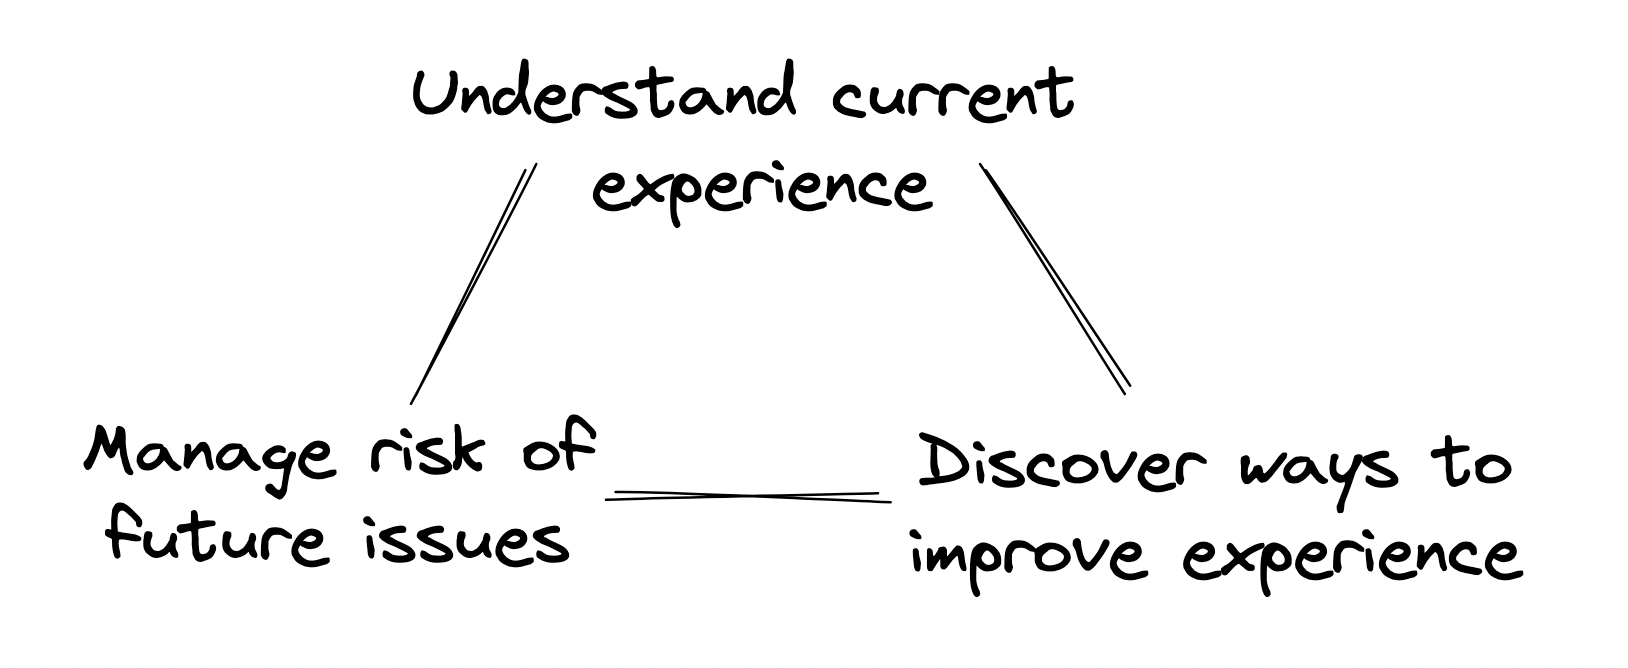
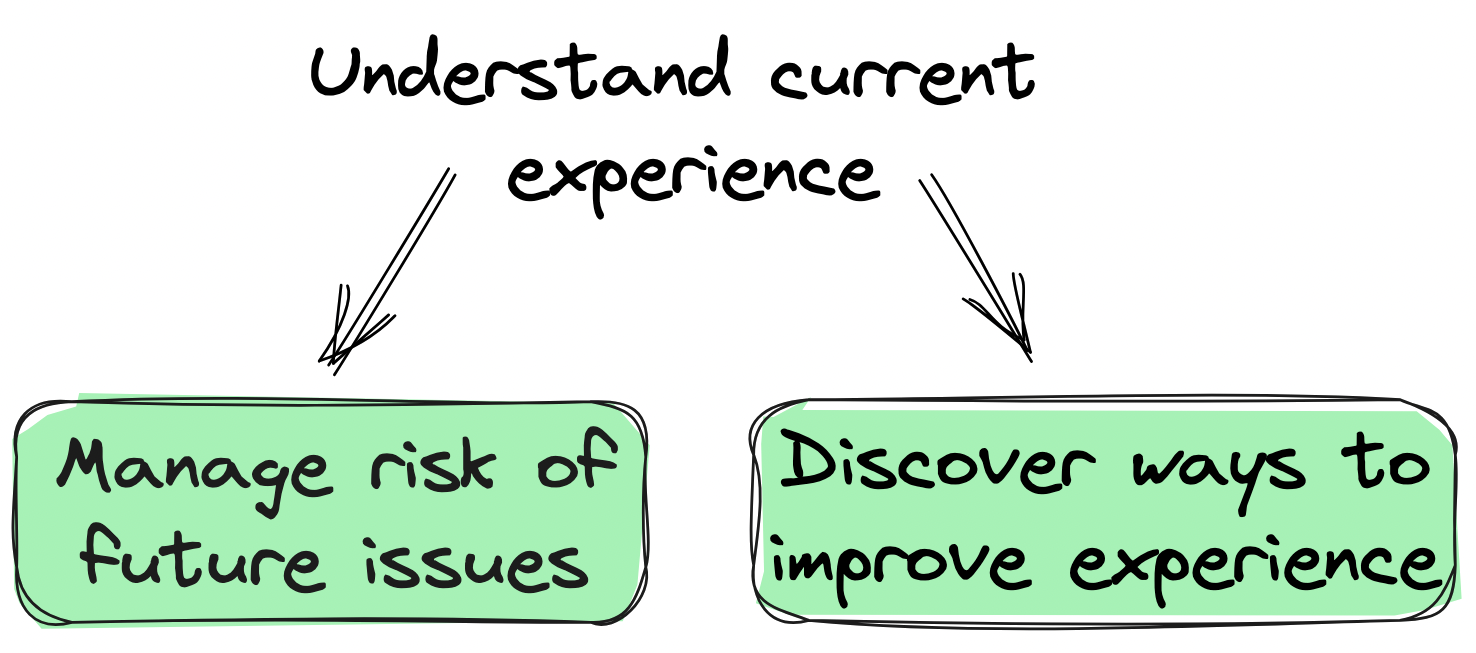
edits

diff --git a/contents/blog/real-user-monitoring.md b/contents/blog/real-user-monitoring.md
@@ -14,36 +14,30 @@ tags:
   - Explainers
 ---
 
-Before anyone can use your product, you must make sure it actually works. Figuring this out is more tricky than just running it locally. Changes often have unintended consequences on other parts of the app or create non-obvious issues. To track and prevent this, companies rely on monitoring.
+Before anyone can use your product, you must make sure it actually works. Figuring this out is more tricky than just running it locally. Changes often have unintended consequences on other parts of the app or create non-obvious issues. 
 
-There are a few ways to do monitoring. The first is synthetic monitoring, which relies on  simulated behaviors and software tests. The second way, which we cover in this post, is real user monitoring. This is monitoring the behavior of real users in your product to ensure that it is working as intended. 
+One way to track and prevent this is synthetic monitoring, which relies on simulated behaviors and software tests. The second way, which we cover in this post, is real user monitoring. 
 
-## Real user monitoring in detail
+## What is real user monitoring?
 
 Real user monitoring is tracking the usage, performance, and quality of your product based on how users are experiencing it.
 
-Because of this, it is a closer representation of reality. It identifies real issues, largely broken down into two classes:
+Because it tracks real user behavior, it is a closer representation of reality. It identifies real issues, largely broken down into two classes:
 
-- Performance: loading, page, and query speed
-- Usability: errors, confusion, bugs
+- Performance: loading, page, and query speed, core web vitals
+- Usability: errors, confusion, bugs, rageclicks, unclear UI
 
 ![Types](../images/blog/real-user-monitoring/classes.png)
 
 The ideal real user monitoring system identifies these problems, provides details, supports planning of fixes, and ultimately, supports creating a better user experience.
 
-## Why do real user monitoring?
+## Benefits of real user monitoring
 
-Real user monitoring is important because it helps you understand your current user experience, discover ways to improve it, and manage the risk of future issues.
+By helping you understand your current user experience, real user monitoring helps you discover ways to improve it and manage the risk of future issues.
 
 ![Why](../images/blog/real-user-monitoring/why.png)
 
-### 1. Understand current experience
-
-The first reason to do real user monitoring is to ensure your product performs well and provides a good user experience. This means it loads fast, is issue-free, and enables users to accomplish their goals efficiently.
-
-To make this happen, you must have visibility into what the current user experience is like.This means understanding query performance, core web vitals, front and backend error rates, unclear UI, rageclicks, and more. These are signs of a negative user experience to be fixed.
-
-### 2. Improve experience
+### 1. Improve experience
 
 There are always endless potential improvements to your product. To get the largest impact on what you build, real user monitoring provides metrics to prioritize these improvements. For example:
 
@@ -55,9 +49,9 @@ There are always endless potential improvements to your product. To get the larg
 
 Real user monitoring helps you get the information to understand and prioritize the issues. It also provides details on how to solve those issues; for example, session replays being bug recreation steps or query metrics showing which ones are slow.
 
-### 3. Manage risk
+### 2. Manage risk
 
-The third and final reason to do real user monitoring is to manage risk. It supports this by uncovering potential risks, providing details for planning, and being part of the solution. 
+Real user monitoring uncovers potential risks, provides details for planning, and is part of the incident alerting process.
 
 By knowing error rates, page and query speeds, and product usage, teams are able to monitor the the health of the product and prevent incidents. These metrics also enables companies to make promises about their experience quality, and back those promises with data. 
 
@@ -65,7 +59,9 @@ For large companies, this is critical. These promises are often solidified in a 
 
 ## How to setup real user monitoring with PostHog
 
-Setup happens over three stages: capture, analyze, and action. PostHog has the tools to do all three.
+Setup happens over three stages: capture, analyze, and action. PostHog, as an all-in-one product OS, has the tools to do all three.
+
+> Not a PostHog user? [Get started for free](https://app.posthog.com/signup?utm_source=real-user-monitoring-blog) – all users get 1 million events and 15k recordings free every month, no card required.
 
 ### 1. Capture
 
